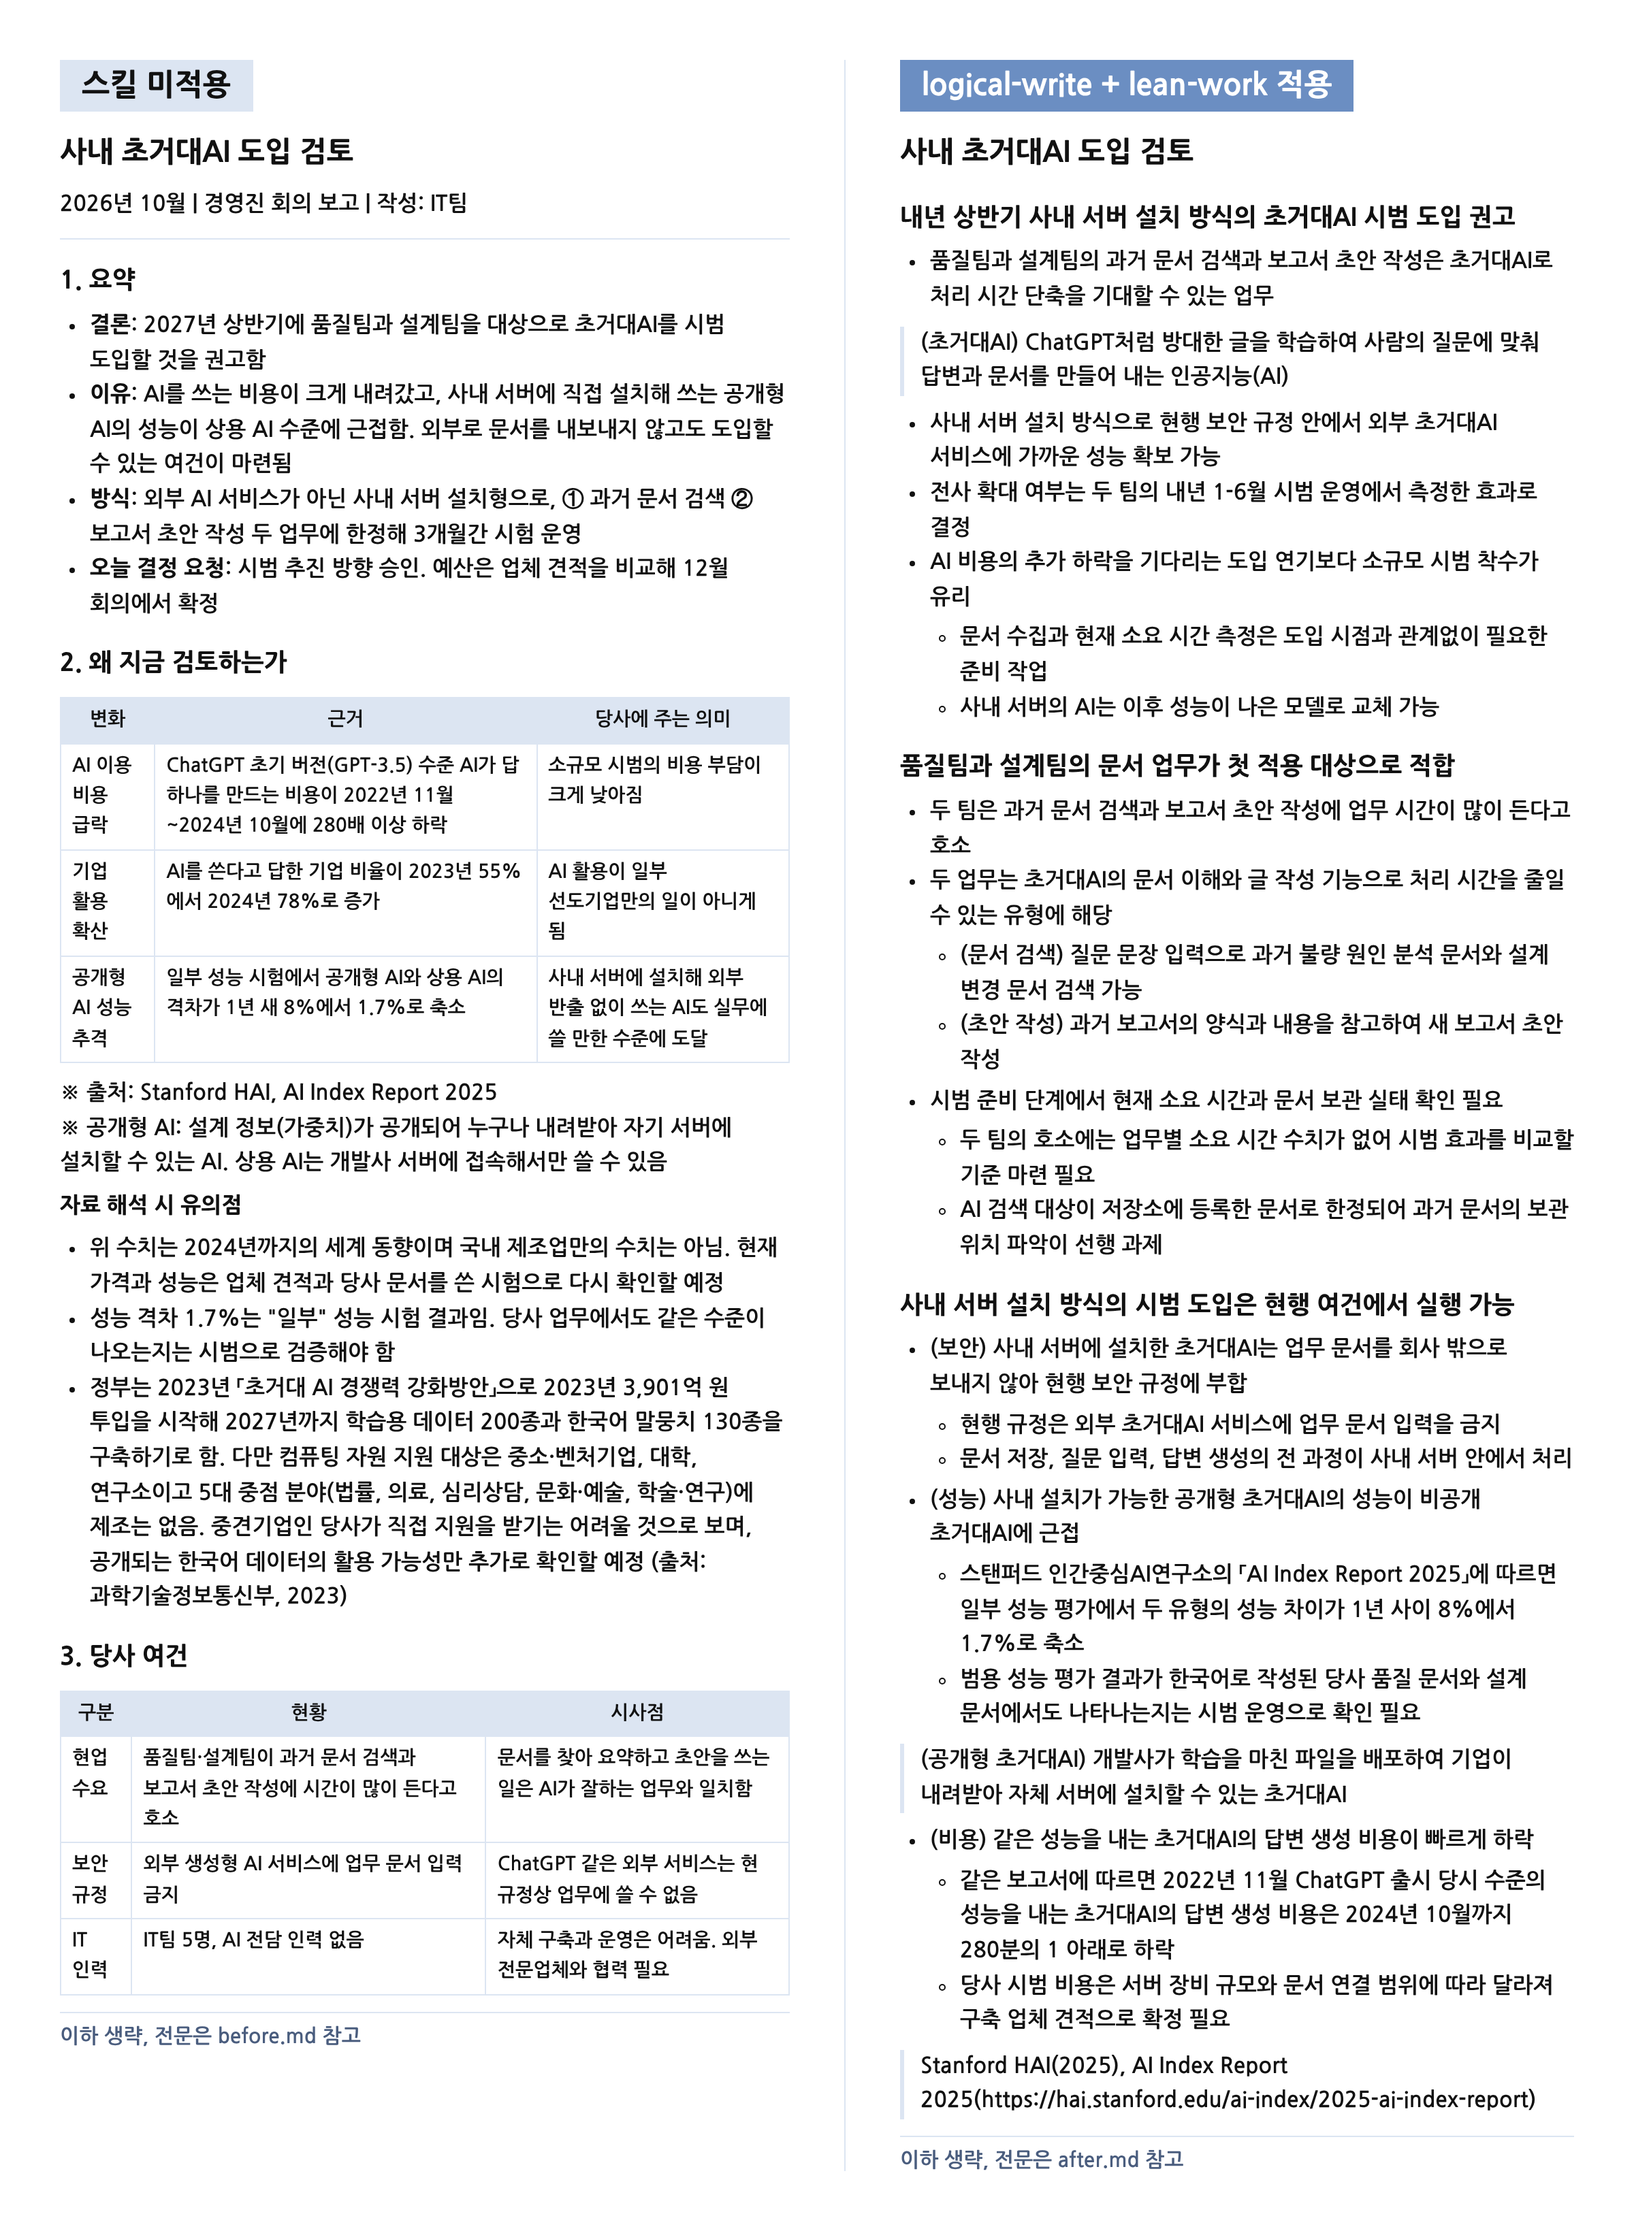
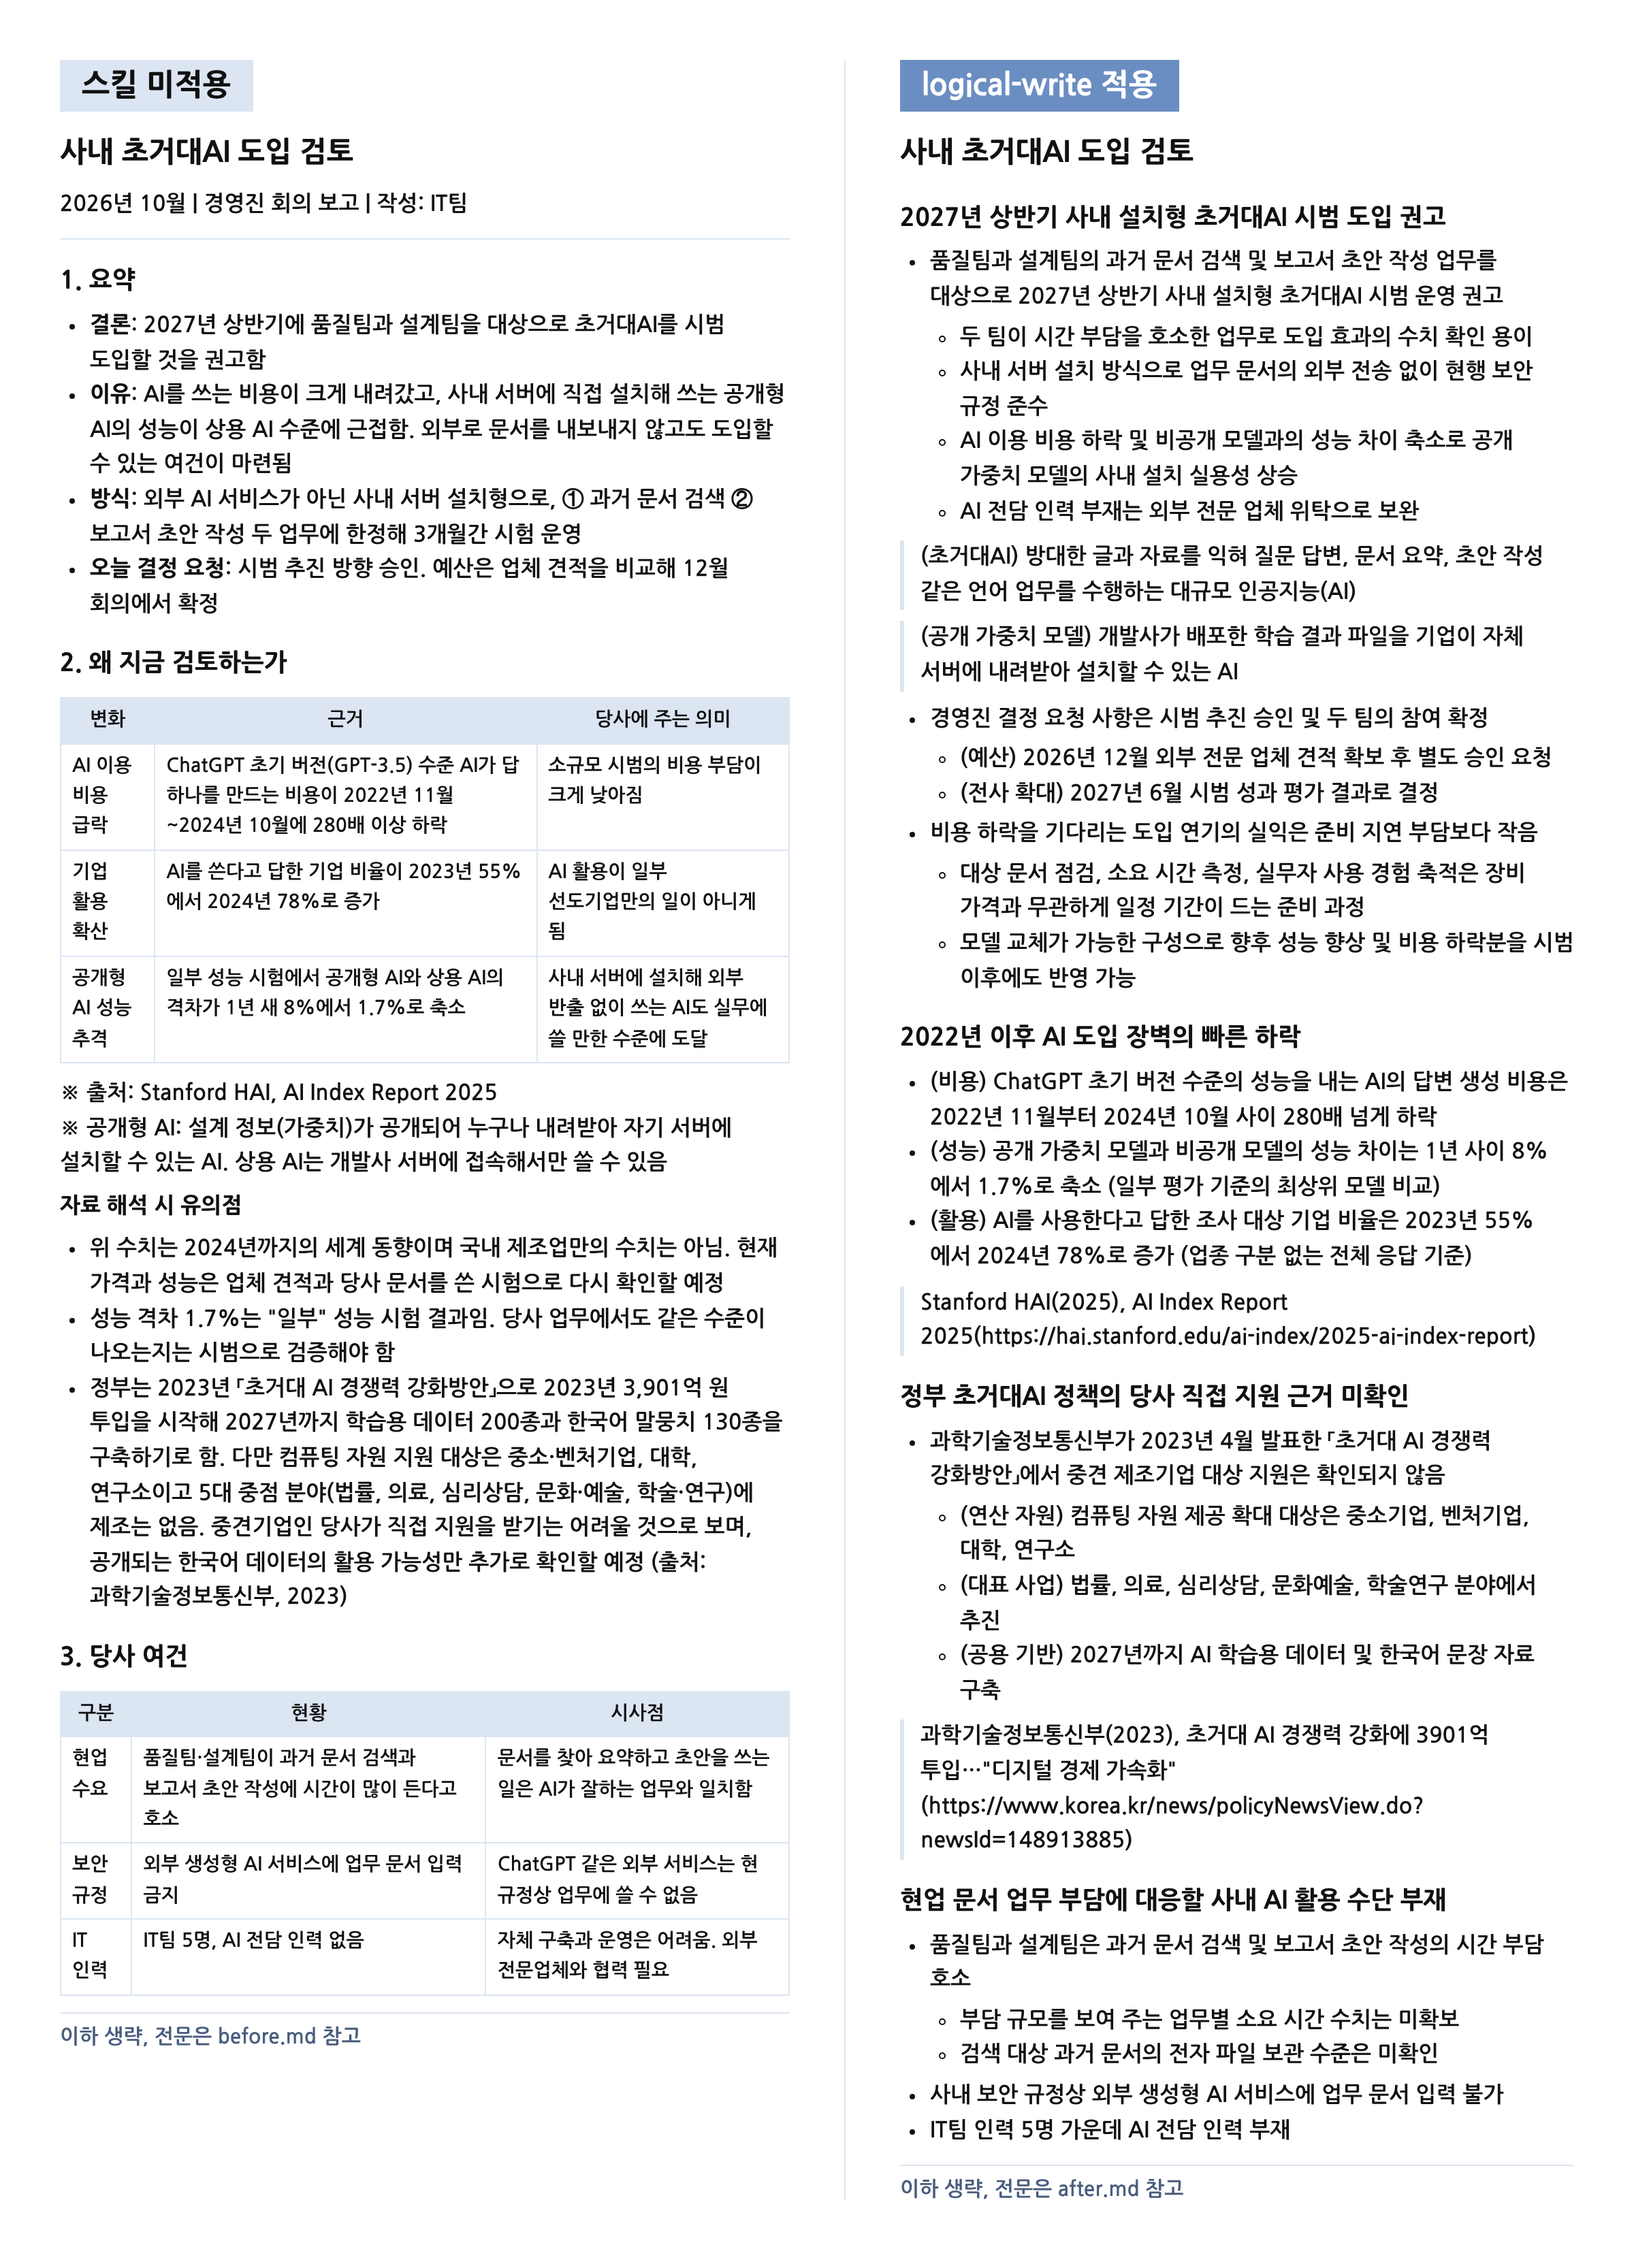
Rerun the Korean logical-write demo with logical-write alone
Claude-Session: https://claude.ai/code/session_01GGLbaL65V7p6PFmonQcYHU

Changed region(s): [[0.5312, 0.0, 0.9688, 0.9646], [0.0312, 0.0311, 0.5, 0.9335]]

diff --git a/skills/logical-write/demo/ko/after.md b/skills/logical-write/demo/ko/after.md
@@ -1,62 +1,66 @@
 # 사내 초거대AI 도입 검토
 
-## 내년 상반기 사내 서버 설치 방식의 초거대AI 시범 도입 권고
-- 품질팀과 설계팀의 과거 문서 검색과 보고서 초안 작성은 초거대AI로 처리 시간 단축을 기대할 수 있는 업무
-> (초거대AI) ChatGPT처럼 방대한 글을 학습하여 사람의 질문에 맞춰 답변과 문서를 만들어 내는 인공지능(AI)
+## 2027년 상반기 사내 설치형 초거대AI 시범 도입 권고
+- 품질팀과 설계팀의 과거 문서 검색 및 보고서 초안 작성 업무를 대상으로 2027년 상반기 사내 설치형 초거대AI 시범 운영 권고
+    + 두 팀이 시간 부담을 호소한 업무로 도입 효과의 수치 확인 용이
+    + 사내 서버 설치 방식으로 업무 문서의 외부 전송 없이 현행 보안 규정 준수
+    + AI 이용 비용 하락 및 비공개 모델과의 성능 차이 축소로 공개 가중치 모델의 사내 설치 실용성 상승
+    + AI 전담 인력 부재는 외부 전문 업체 위탁으로 보완
 
-- 사내 서버 설치 방식으로 현행 보안 규정 안에서 외부 초거대AI 서비스에 가까운 성능 확보 가능
-- 전사 확대 여부는 두 팀의 내년 1-6월 시범 운영에서 측정한 효과로 결정
-- AI 비용의 추가 하락을 기다리는 도입 연기보다 소규모 시범 착수가 유리
-    + 문서 수집과 현재 소요 시간 측정은 도입 시점과 관계없이 필요한 준비 작업
-    + 사내 서버의 AI는 이후 성능이 나은 모델로 교체 가능
+> (초거대AI) 방대한 글과 자료를 익혀 질문 답변, 문서 요약, 초안 작성 같은 언어 업무를 수행하는 대규모 인공지능(AI)
 
-## 품질팀과 설계팀의 문서 업무가 첫 적용 대상으로 적합
-- 두 팀은 과거 문서 검색과 보고서 초안 작성에 업무 시간이 많이 든다고 호소
-- 두 업무는 초거대AI의 문서 이해와 글 작성 기능으로 처리 시간을 줄일 수 있는 유형에 해당
-    + (문서 검색) 질문 문장 입력으로 과거 불량 원인 분석 문서와 설계 변경 문서 검색 가능
-    + (초안 작성) 과거 보고서의 양식과 내용을 참고하여 새 보고서 초안 작성
-- 시범 준비 단계에서 현재 소요 시간과 문서 보관 실태 확인 필요
-    + 두 팀의 호소에는 업무별 소요 시간 수치가 없어 시범 효과를 비교할 기준 마련 필요
-    + AI 검색 대상이 저장소에 등록한 문서로 한정되어 과거 문서의 보관 위치 파악이 선행 과제
+> (공개 가중치 모델) 개발사가 배포한 학습 결과 파일을 기업이 자체 서버에 내려받아 설치할 수 있는 AI
 
-## 사내 서버 설치 방식의 시범 도입은 현행 여건에서 실행 가능
-- (보안) 사내 서버에 설치한 초거대AI는 업무 문서를 회사 밖으로 보내지 않아 현행 보안 규정에 부합
-    + 현행 규정은 외부 초거대AI 서비스에 업무 문서 입력을 금지
-    + 문서 저장, 질문 입력, 답변 생성의 전 과정이 사내 서버 안에서 처리
-- (성능) 사내 설치가 가능한 공개형 초거대AI의 성능이 비공개 초거대AI에 근접
-    + 스탠퍼드 인간중심AI연구소의 「AI Index Report 2025」에 따르면 일부 성능 평가에서 두 유형의 성능 차이가 1년 사이 8%에서 1.7%로 축소
-    + 범용 성능 평가 결과가 한국어로 작성된 당사 품질 문서와 설계 문서에서도 나타나는지는 시범 운영으로 확인 필요
-> (공개형 초거대AI) 개발사가 학습을 마친 파일을 배포하여 기업이 내려받아 자체 서버에 설치할 수 있는 초거대AI
+- 경영진 결정 요청 사항은 시범 추진 승인 및 두 팀의 참여 확정
+    + (예산) 2026년 12월 외부 전문 업체 견적 확보 후 별도 승인 요청
+    + (전사 확대) 2027년 6월 시범 성과 평가 결과로 결정
+- 비용 하락을 기다리는 도입 연기의 실익은 준비 지연 부담보다 작음
+    + 대상 문서 점검, 소요 시간 측정, 실무자 사용 경험 축적은 장비 가격과 무관하게 일정 기간이 드는 준비 과정
+    + 모델 교체가 가능한 구성으로 향후 성능 향상 및 비용 하락분을 시범 이후에도 반영 가능
 
-- (비용) 같은 성능을 내는 초거대AI의 답변 생성 비용이 빠르게 하락
-    + 같은 보고서에 따르면 2022년 11월 ChatGPT 출시 당시 수준의 성능을 내는 초거대AI의 답변 생성 비용은 2024년 10월까지 280분의 1 아래로 하락
-    + 당사 시범 비용은 서버 장비 규모와 문서 연결 범위에 따라 달라져 구축 업체 견적으로 확정 필요
+## 2022년 이후 AI 도입 장벽의 빠른 하락
+- (비용) ChatGPT 초기 버전 수준의 성능을 내는 AI의 답변 생성 비용은 2022년 11월부터 2024년 10월 사이 280배 넘게 하락
+- (성능) 공개 가중치 모델과 비공개 모델의 성능 차이는 1년 사이 8%에서 1.7%로 축소 (일부 평가 기준의 최상위 모델 비교)
+- (활용) AI를 사용한다고 답한 조사 대상 기업 비율은 2023년 55%에서 2024년 78%로 증가 (업종 구분 없는 전체 응답 기준)
+
 > Stanford HAI(2025), AI Index Report 2025(https://hai.stanford.edu/ai-index/2025-ai-index-report)
 
-- (운영 인력) IT팀의 AI 전담 인력 부재는 외부 구축 업체 위탁으로 보완 가능
-    + IT팀 5명 가운데 AI 전담 인력이 없어 AI 설치와 문서 연결의 자체 수행 곤란
-    + 구축 업체가 설치, 문서 연결, 시범 기간 운영 지원을 담당
-    + IT팀 운영 담당자 1명은 구축 업체와 공동 운영으로 시범 종료 전 운영 방법 습득
+## 정부 초거대AI 정책의 당사 직접 지원 근거 미확인
+- 과학기술정보통신부가 2023년 4월 발표한 「초거대 AI 경쟁력 강화방안」에서 중견 제조기업 대상 지원은 확인되지 않음
+    + (연산 자원) 컴퓨팅 자원 제공 확대 대상은 중소기업, 벤처기업, 대학, 연구소
+    + (대표 사업) 법률, 의료, 심리상담, 문화예술, 학술연구 분야에서 추진
+    + (공용 기반) 2027년까지 AI 학습용 데이터 및 한국어 문장 자료 구축
 
-## 단계별 시범 운영의 측정 결과로 전사 확대 여부 결정
-- 시범 도입은 올해 11월 업체 선정부터 내년 6월 평가까지 8개월 일정으로 진행
-
-| 단계 | 기간 | 주요 활동 | 산출물 |
-|---|---|---|---|
-| 업체 선정 | 올해 11-12월 | 구축 업체 견적 접수, 업체 선정, 시범 예산 확정 | 업체 계약 및 시범 예산 |
-| 설치 | 내년 1-2월 | 대상 문서 수집, 사내 서버 설치, 현재 소요 시간 측정 | 문서 저장소 및 기준 소요 시간 |
-| 운영 | 내년 3-5월 | 두 팀 실무자의 문서 검색과 보고서 초안 작성에 활용 | 이용 기록 및 오답 사례 |
-| 평가 | 내년 6월 | 판단 기준별 결과 정리와 경영진 보고 | 전사 확대 여부 결정안 |
-
-- 시범 예산은 자체 재원으로 편성
-    + 2023년 4월 과학기술정보통신부가 발표한 「초거대 AI 경쟁력 강화방안」의 컴퓨팅 자원 지원 대상은 중소기업, 벤처기업, 대학, 연구소로 중견기업인 당사는 미포함
-    + 같은 방안의 플래그십 프로젝트 분야는 법률, 의료, 심리상담, 문화예술, 학술연구로 제조 분야 미포함
 > 과학기술정보통신부(2023), 초거대 AI 경쟁력 강화에 3901억 투입…"디지털 경제 가속화"(https://www.korea.kr/news/policyNewsView.do?newsId=148913885)
 
-- 시범 기간 중 AI가 만든 검색 결과와 초안은 실무자가 근거 문서와 대조한 뒤 활용
-    + 초거대AI는 문서에 없는 내용을 사실처럼 답하는 오류 발생 가능
-    + 대조 과정에서 찾은 오답 사례는 답변 정확도 평가 자료로 활용
-- 전사 확대 여부는 시간 단축, 답변 정확도, 비용 대비 효과로 판단
-    + (시간 단축) 기준 소요 시간 대비 문서 검색과 보고서 초안 작성 시간의 단축 폭 측정
-    + (답변 정확도) AI 답변과 AI가 근거로 제시한 사내 문서의 내용 일치 비율 산정
-    + (비용 대비 효과) 단축 시간의 인건비 환산액을 연간 운영 비용과 비교
+## 현업 문서 업무 부담에 대응할 사내 AI 활용 수단 부재
+- 품질팀과 설계팀은 과거 문서 검색 및 보고서 초안 작성의 시간 부담 호소
+    + 부담 규모를 보여 주는 업무별 소요 시간 수치는 미확보
+    + 검색 대상 과거 문서의 전자 파일 보관 수준은 미확인
+- 사내 보안 규정상 외부 생성형 AI 서비스에 업무 문서 입력 불가
+- IT팀 인력 5명 가운데 AI 전담 인력 부재
+
+## 품질팀과 설계팀 문서 업무에 한정한 시범 설계
+- 시범 범위를 두 팀의 문서 업무로 좁혀 문서 노출 위험 및 투자 규모 최소화
+
+| 설계 항목 | 시범 설계 | 설계 근거 |
+|---|---|---|
+| 대상 업무 | 두 팀의 과거 문서 검색 및 보고서 초안 작성 (두 팀 보유 문서로 한정) | 시간 부담 호소가 있는 현업 수요 |
+| 설치 방식 | 공개 가중치 모델을 교체 가능한 구성으로 사내 서버에 설치 | 외부 서비스 입력 금지 규정 및 비공개 모델과의 성능 차이 축소 |
+| 구축 및 운영 | 외부 전문 업체 위탁 구축 및 IT팀 운영 담당자 1명 지정 | AI 전담 인력 부재 |
+| 재원 | 자체 재원 기준 편성 및 정부 지원 사업 해당 여부 병행 확인 | 정부 계획의 당사 직접 지원 미확인 |
+
+## 2027년 6월 성과 평가 후 전사 확대 결정
+- 시범은 2026년 11월 준비 착수부터 2027년 6월 성과 평가까지 단계별로 진행
+
+| 기간 | 단계 | 주요 활동 |
+|---|---|---|
+| 2026년 11-12월 | 준비 | 외부 전문 업체 및 서버 사양 확정, 대상 문서 보관 상태 점검, 업무별 현재 소요 시간 측정 |
+| 2027년 1-2월 | 구축 | 사내 서버 설치 및 품질팀과 설계팀 보유 문서 등록 |
+| 2027년 3-5월 | 시범 운영 | 두 팀 실무자의 일상 업무 사용 및 월별 사용 결과 점검 |
+| 2027년 6월 | 평가 | 시범 전후 소요 시간 비교 및 전사 확대 여부 결정 |
+
+- 전사 확대 판단 기준은 업무별 소요 시간 단축 폭 및 답변 정확도
+    + 단축 목표치는 준비 단계에서 측정한 현재 소요 시간을 바탕으로 시범 운영 전 확정
+    + 답변 정확도는 실무자가 AI 답변을 원문서와 대조하여 산정
+- 기준 미달 시 전사 확대 없이 시범을 종료하여 투자 범위를 시범 예산 안으로 한정
